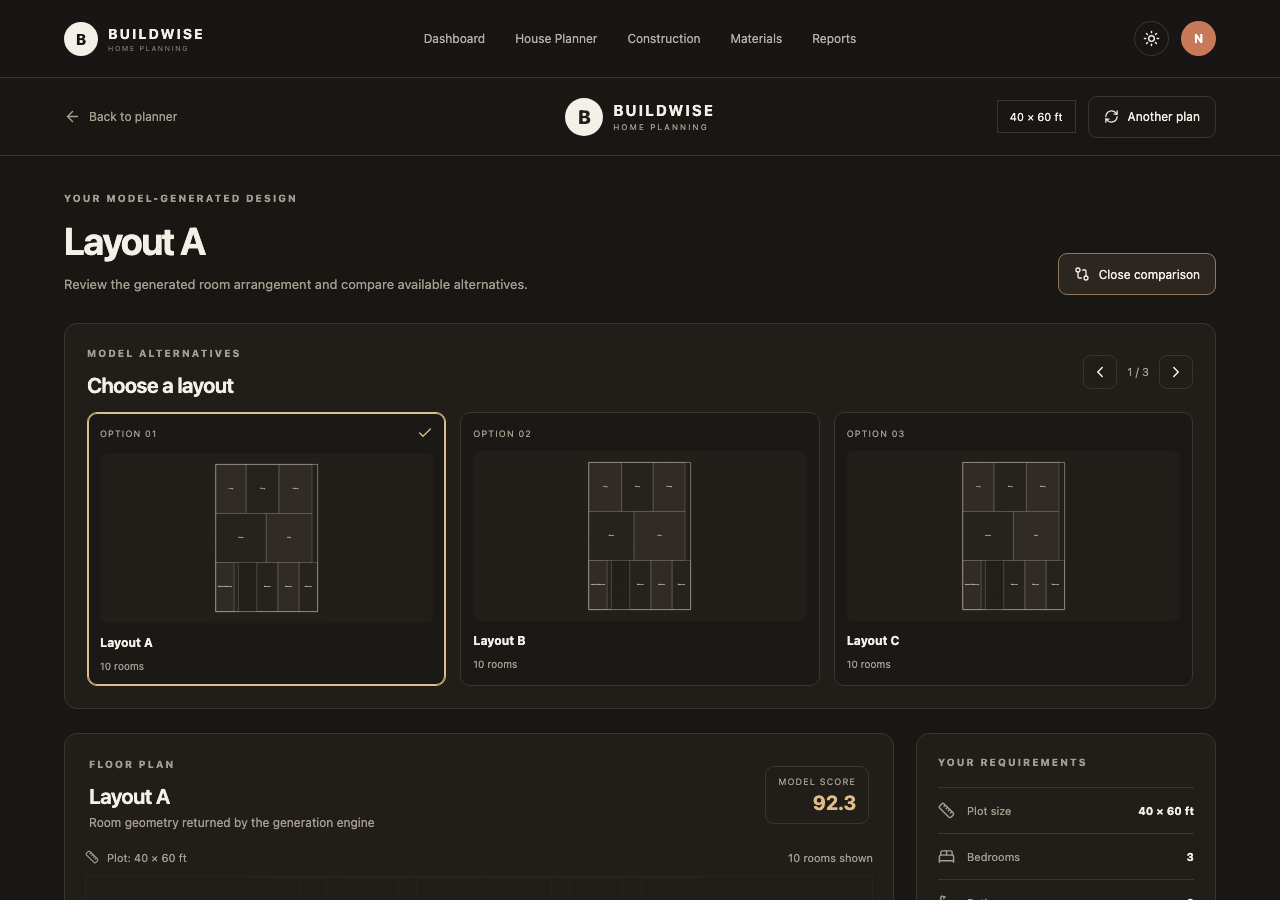
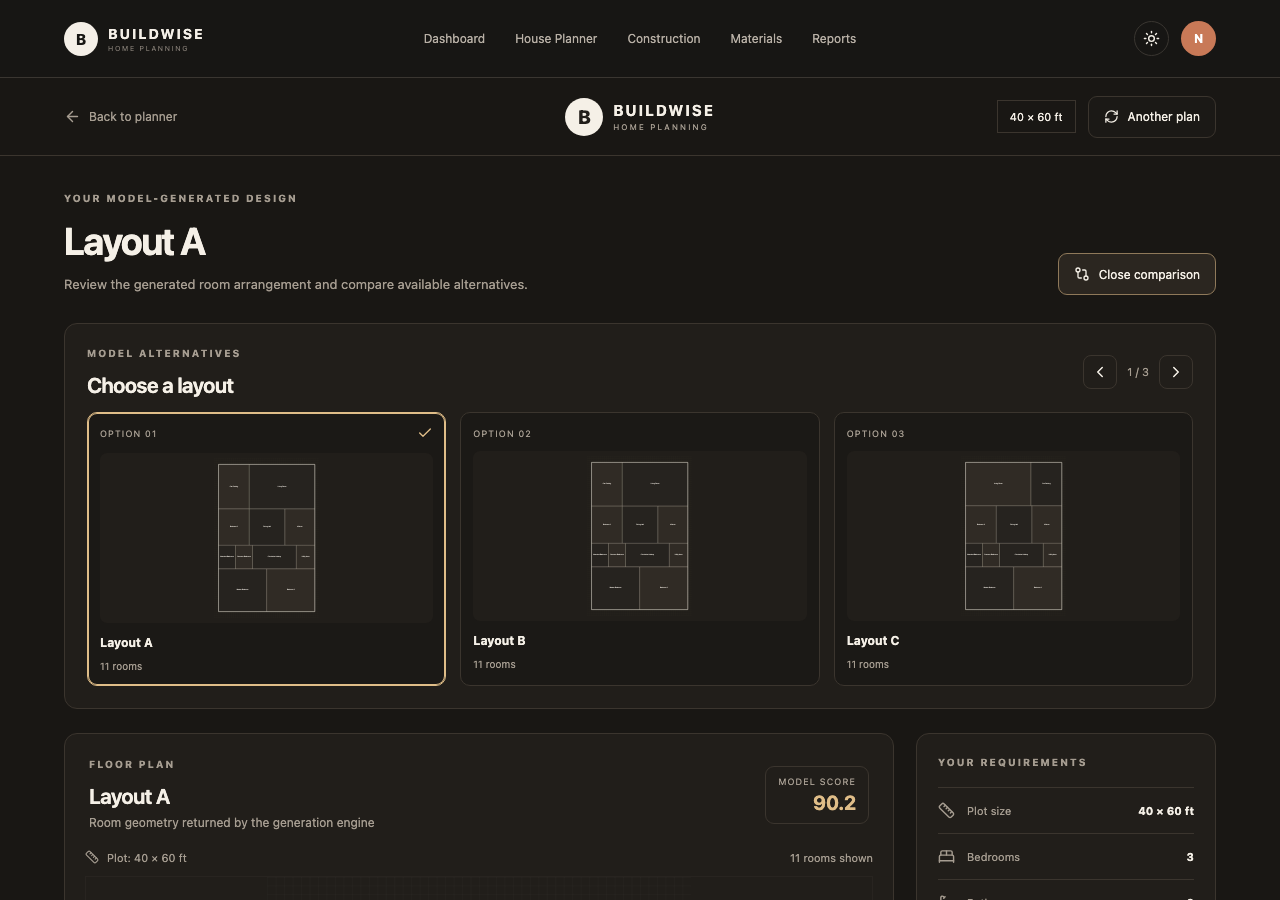
fix(floorplan): implement realistic 2D architectural room layout solver with proper zoning and proportions

diff --git a/backend/app/services/floorplan/solver.py b/backend/app/services/floorplan/solver.py
@@ -350,7 +350,7 @@ class FloorPlanSolver:
         rng = random.Random(seed)
 
         # Generate Ground Floor
-        g_placed = self._slice_floor(rng, envelope, ground_rooms, is_ground=True)
+        g_placed = self._layout_floor(rng, envelope, ground_rooms, is_ground=True, alt_index=alt_index)
         if not g_placed:
             return None
 
@@ -364,7 +364,7 @@ class FloorPlanSolver:
 
         # Generate Upper Floors (if any)
         for fl_level, u_rooms in upper_rooms.items():
-            u_placed = self._slice_floor(rng, envelope, u_rooms, is_ground=False)
+            u_placed = self._layout_floor(rng, envelope, u_rooms, is_ground=False, alt_index=alt_index)
             if u_placed:
                 floors_data.append(
                     {
@@ -409,121 +409,263 @@ class FloorPlanSolver:
             },
         }
 
-    def _slice_floor(
+    def _layout_floor(
         self,
         rng: random.Random,
         envelope: Envelope,
         rooms_to_place: list[dict[str, Any]],
         is_ground: bool,
+        alt_index: int = 0,
     ) -> list[RectRoom] | None:
         if not rooms_to_place:
             return []
 
-        # Categorize rooms by functional zone
-        # Public zone (living, dining, parking) -> closer to road
-        # Service zone (kitchen, utility, pooja)
-        # Private zone (master bedroom, bedrooms, bathrooms)
-        # Staircase
-        rooms = list(rooms_to_place)
+        W = envelope.width
+        D = envelope.height
+        jitter = round(rng.uniform(-0.5, 0.5), 2)
 
-        # Find master and master bath to keep them adjacent
-        master = next((r for r in rooms if r.get("id") == "master" or r.get("type") == "master_bedroom"), None)
-        master_bath = next((r for r in rooms if r.get("attached_to") == "master"), None)
+        # Categorize rooms
+        living = next((r for r in rooms_to_place if r.get("type") == "living"), None)
+        dining = next((r for r in rooms_to_place if r.get("type") == "dining"), None)
+        kitchen = next((r for r in rooms_to_place if r.get("type") == "kitchen"), None)
+        utility = next((r for r in rooms_to_place if r.get("type") == "utility"), None)
+        pooja = next((r for r in rooms_to_place if r.get("type") == "pooja"), None)
+        parking = next((r for r in rooms_to_place if r.get("type") == "parking"), None)
 
-        # Target areas
-        total_min = sum(float(r.get("min_area", 100)) for r in rooms)
-        avail_area = envelope.area
-        scale = max(1.0, min(1.35, avail_area / (total_min * 1.15)))
+        master = next((r for r in rooms_to_place if r.get("id") == "master" or r.get("type") == "master_bedroom"), None)
+        other_beds = [r for r in rooms_to_place if "bed" in r.get("type", "") and r != master]
+        master_bath = next((r for r in rooms_to_place if r.get("attached_to") == "master"), None)
+        common_baths = [r for r in rooms_to_place if "bath" in r.get("type", "") and r != master_bath]
 
-        placed_rooms: list[RectRoom] = []
+        # Upper floor specific
+        balcony = next((r for r in rooms_to_place if r.get("type") == "balcony"), None)
+        staircase = next((r for r in rooms_to_place if r.get("type") == "staircase"), None)
 
-        # Divide envelope into 2 or 3 bands along depth or width depending on road_side
-        # If road_side == N: top band = public, middle = circulation/services, bottom = private
-        # If road_side == S: bottom = public, top = private
-        # If road_side == W: left = public, right = private
-        # If road_side == E: right = public, left = private
-        split_vertical = envelope.width >= envelope.height
+        # Raw normalized boxes (id, name, type, u, v, w, h)
+        raw_boxes: list[tuple[str, str, str, float, float, float, float]] = []
 
-        # Group rooms
-        public_list = [r for r in rooms if r.get("type") in {"living", "dining", "parking"}]
-        service_list = [r for r in rooms if r.get("type") in {"kitchen", "utility", "pooja", "staircase"}]
-        private_list = [r for r in rooms if r not in public_list and r not in service_list]
+        # If on upper floor or single living room without service wing
+        if not is_ground:
+            # Upper floor: Front Balcony / Lounge, Bedrooms, Baths, Staircase
+            h_front = round(min(16.0, max(12.0, D * 0.35 + jitter)), 2)
+            h_rear = round(D - h_front, 2)
 
-        # Order bands based on road_side
-        road = self.road_side
-        if road == "N":
-            bands_order = [public_list, service_list, private_list]
-            reverse_band = False
-        elif road == "S":
-            bands_order = [private_list, service_list, public_list]
-            reverse_band = False
-        elif road == "W":
-            bands_order = [public_list, service_list, private_list]
-            reverse_band = False
+            if balcony:
+                w_bal = round(min(10.0, max(6.0, W * 0.3)), 2)
+                w_lounge = round(W - w_bal, 2)
+                raw_boxes.append((balcony["id"], balcony.get("name", "Balcony"), "balcony", 0.0, 0.0, w_bal, h_front))
+                raw_boxes.append(("family_lounge", "Family Lounge", "living", w_bal, 0.0, w_lounge, h_front))
+            else:
+                raw_boxes.append(("family_lounge", "Family Lounge", "living", 0.0, 0.0, W, h_front))
+
+            all_upper_beds = other_beds if other_beds else ([master] if master else [])
+            n_beds = max(1, len(all_upper_beds))
+            w_col = round(W / n_beds, 2)
+            for i, bed in enumerate(all_upper_beds):
+                bx = round(i * w_col, 2)
+                bw = round(W - bx if i == n_beds - 1 else w_col, 2)
+                bname = bed.get("name") or f"Bedroom {i+2}"
+                raw_boxes.append((bed["id"], bname, "bedroom", bx, h_front, bw, h_rear))
+
+            if common_baths:
+                cb = common_baths[0]
+                raw_boxes.append((cb["id"], cb.get("name", "Bathroom"), "bathroom", 0.0, h_front, 6.0, 8.0))
+
         else:
-            bands_order = [private_list, service_list, public_list]
-            reverse_band = False
+            # GROUND FLOOR:
+            use_4_bands = (len(other_beds) >= 1 or D >= 44.0) and D >= 38.0
 
-        # Filter out empty bands
-        active_bands = [b for b in bands_order if b]
-        if not active_bands:
-            active_bands = [rooms]
+            if use_4_bands:
+                # 4-BAND ARCHITECTURAL LAYOUT
+                h_front = round(min(17.0, max(14.0, D * 0.30 + jitter)), 2)
+                h_mid1 = round(min(15.0, max(12.0, D * 0.25 - jitter)), 2)
+                h_mid2 = round(min(9.0, max(7.5, D * 0.16)), 2)
+                h_rear = round(D - h_front - h_mid1 - h_mid2, 2)
 
-        num_bands = len(active_bands)
-        curr_y = envelope.min_y
-        band_height = envelope.height / num_bands
+                # Band 1: Front Zone (Parking + Living Room)
+                if parking:
+                    w_park = round(min(12.0, max(10.0, W * 0.32)), 2)
+                    w_liv = round(W - w_park, 2)
+                    if alt_index % 2 == 1:
+                        # Parking on Right, Living on Left
+                        if living:
+                            raw_boxes.append((living["id"], living.get("name", "Living Room"), "living", 0.0, 0.0, w_liv, h_front))
+                        raw_boxes.append((parking["id"], parking.get("name", "Car Parking"), "parking", w_liv, 0.0, w_park, h_front))
+                    else:
+                        # Parking on Left, Living on Right (Vastu classic)
+                        raw_boxes.append((parking["id"], parking.get("name", "Car Parking"), "parking", 0.0, 0.0, w_park, h_front))
+                        if living:
+                            raw_boxes.append((living["id"], living.get("name", "Living Room"), "living", w_park, 0.0, w_liv, h_front))
+                elif living:
+                    raw_boxes.append((living["id"], living.get("name", "Living Room"), "living", 0.0, 0.0, W, h_front))
 
-        for band_idx, band in enumerate(active_bands):
-            b_y = envelope.min_y + band_idx * band_height
-            b_h = band_height
-            curr_x = envelope.min_x
-            n_rooms = len(band)
-            room_width = envelope.width / max(1, n_rooms)
+                # Band 2: Mid-Front Zone (Bedroom 3 / Guest Room, Dining Hall, Kitchen)
+                y_mid1 = h_front
+                b3 = other_beds[-1] if len(other_beds) >= 2 else (other_beds[0] if other_beds else None)
+                w_b3 = round(min(12.0, max(9.5, W * 0.32)), 2) if b3 else 0.0
+                w_kit = round(min(12.0, max(9.5, W * 0.31)), 2) if kitchen else 0.0
+                w_din = round(W - w_b3 - w_kit, 2)
 
-            # Randomize slightly with rng
-            widths = [room_width] * n_rooms
-            if n_rooms > 1:
-                jitter = rng.uniform(-1.0, 1.0)
-                widths[0] = max(8.0, widths[0] + jitter)
-                rem = (envelope.width - widths[0]) / (n_rooms - 1)
-                for i in range(1, n_rooms):
-                    widths[i] = rem
+                if b3:
+                    b3_name = b3.get("name") or ("Bedroom 3" if len(other_beds) >= 2 else "Bedroom 2")
+                    raw_boxes.append((b3["id"], b3_name, "bedroom", 0.0, y_mid1, w_b3, h_mid1))
+                if dining:
+                    raw_boxes.append((dining["id"], dining.get("name", "Dining Hall"), "dining", w_b3, y_mid1, w_din, h_mid1))
+                if kitchen:
+                    raw_boxes.append((kitchen["id"], kitchen.get("name", "Kitchen"), "kitchen", round(w_b3 + w_din, 2), y_mid1, w_kit, h_mid1))
 
-            for i, r in enumerate(band):
-                rx = curr_x
-                ry = b_y
-                rw = widths[i]
-                rh = b_h
-                rname = r.get("name") or r.get("type", "").replace("_", " ").title()
+                # Band 3: Services, Hallway & Bathrooms
+                y_mid2 = round(y_mid1 + h_mid1, 2)
+                w_mb = 6.0 if master_bath else 0.0
+                w_cb = 6.0 if common_baths else 0.0
+                w_pj = 5.5 if pooja else 0.0
+                w_ut = 6.5 if utility else 0.0
+                w_hall = round(max(5.0, W - w_mb - w_cb - w_pj - w_ut), 2)
 
-                # Ensure minimum width
-                min_w = 4.5 if "bath" in r.get("type", "") else 7.5
-                if rw < min_w:
-                    rw = min_w
-                if rh < min_w:
-                    rh = min_w
+                curr_x = 0.0
+                if master_bath:
+                    raw_boxes.append((master_bath["id"], master_bath.get("name", "Attached Bathroom"), "attached_bathroom", curr_x, y_mid2, w_mb, h_mid2))
+                    curr_x = round(curr_x + w_mb, 2)
+                if common_baths:
+                    cb = common_baths[0]
+                    raw_boxes.append((cb["id"], cb.get("name", "Common Bathroom"), "bathroom", curr_x, y_mid2, w_cb, h_mid2))
+                    curr_x = round(curr_x + w_cb, 2)
+                raw_boxes.append(("hallway", "Circulation Hallway", "corridor", curr_x, y_mid2, w_hall, h_mid2))
+                curr_x = round(curr_x + w_hall, 2)
+                if pooja:
+                    raw_boxes.append((pooja["id"], pooja.get("name", "Pooja Room"), "pooja", curr_x, y_mid2, w_pj, h_mid2))
+                    curr_x = round(curr_x + w_pj, 2)
+                if utility:
+                    rem_ut = round(W - curr_x, 2)
+                    raw_boxes.append((utility["id"], utility.get("name", "Utility Area"), "utility", curr_x, y_mid2, rem_ut, h_mid2))
 
-                placed = RectRoom(
-                    id=r.get("id"),
-                    type=r.get("type"),
+                # Band 4: Rear Private Bedroom Wing (Master Bedroom + Bedroom 2)
+                y_rear = round(y_mid2 + h_mid2, 2)
+                rear_beds = [master] if master else []
+                for b in other_beds:
+                    if b != b3:
+                        rear_beds.append(b)
+
+                if not rear_beds:
+                    rear_beds = [master] if master else []
+
+                n_rb = max(1, len(rear_beds))
+                w_rcol = round(W / n_rb, 2)
+                for i, bed in enumerate(rear_beds):
+                    bx = round(i * w_rcol, 2)
+                    bw = round(W - bx if i == n_rb - 1 else w_rcol, 2)
+                    bname = bed.get("name") or ("Master Bedroom" if bed == master else f"Bedroom {i+1}")
+                    raw_boxes.append((bed["id"], bname, bed.get("type", "bedroom"), bx, y_rear, bw, h_rear))
+
+            else:
+                # 3-BAND ARCHITECTURAL LAYOUT (for 1 or 2 bedrooms, or compact depths)
+                h_front = round(min(17.0, max(13.0, D * 0.33 + jitter)), 2)
+                h_mid = round(min(18.0, max(13.0, D * 0.34 - jitter)), 2)
+                h_rear = round(D - h_front - h_mid, 2)
+
+                # Front
+                if parking:
+                    w_park = round(min(12.0, max(10.0, W * 0.32)), 2)
+                    w_liv = round(W - w_park, 2)
+                    raw_boxes.append((parking["id"], parking.get("name", "Car Parking"), "parking", 0.0, 0.0, w_park, h_front))
+                    if living:
+                        raw_boxes.append((living["id"], living.get("name", "Living Room"), "living", w_park, 0.0, w_liv, h_front))
+                elif living:
+                    raw_boxes.append((living["id"], living.get("name", "Living Room"), "living", 0.0, 0.0, W, h_front))
+
+                # Mid
+                w_serv = round(min(11.0, max(9.0, W * 0.30)), 2) if kitchen else 0.0
+                w_left = 6.5 if (pooja or common_baths) else 0.0
+                w_din = round(W - w_serv - w_left, 2)
+                y_mid = h_front
+
+                if common_baths and pooja:
+                    raw_boxes.append((pooja["id"], pooja.get("name", "Pooja Room"), "pooja", 0.0, y_mid, w_left, round(h_mid * 0.4, 2)))
+                    raw_boxes.append((common_baths[0]["id"], common_baths[0].get("name", "Common Bathroom"), "bathroom", 0.0, round(y_mid + h_mid * 0.4, 2), w_left, round(h_mid * 0.6, 2)))
+                elif common_baths:
+                    raw_boxes.append((common_baths[0]["id"], common_baths[0].get("name", "Common Bathroom"), "bathroom", 0.0, y_mid, w_left, h_mid))
+                elif pooja:
+                    raw_boxes.append((pooja["id"], pooja.get("name", "Pooja Room"), "pooja", 0.0, y_mid, w_left, h_mid))
+
+                if dining:
+                    raw_boxes.append((dining["id"], dining.get("name", "Dining Hall"), "dining", w_left, y_mid, w_din, h_mid))
+
+                if kitchen and utility:
+                    hk = round(h_mid * 0.65, 2)
+                    hu = round(h_mid - hk, 2)
+                    raw_boxes.append((kitchen["id"], kitchen.get("name", "Kitchen"), "kitchen", round(w_left + w_din, 2), y_mid, w_serv, hk))
+                    raw_boxes.append((utility["id"], utility.get("name", "Utility Area"), "utility", round(w_left + w_din, 2), round(y_mid + hk, 2), w_serv, hu))
+                elif kitchen:
+                    raw_boxes.append((kitchen["id"], kitchen.get("name", "Kitchen"), "kitchen", round(w_left + w_din, 2), y_mid, w_serv, h_mid))
+
+                # Rear
+                y_rear = round(y_mid + h_mid, 2)
+                rear_beds = [master] if master else []
+                rear_beds.extend(other_beds)
+                if not rear_beds:
+                    rear_beds = [master] if master else []
+
+                n_rb = max(1, len(rear_beds))
+                w_rcol = round(W / n_rb, 2)
+                for i, bed in enumerate(rear_beds):
+                    bx = round(i * w_rcol, 2)
+                    bw = round(W - bx if i == n_rb - 1 else w_rcol, 2)
+                    if bed == master and master_bath:
+                        w_mb = 5.5
+                        w_mbed = round(bw - w_mb, 2)
+                        raw_boxes.append((master["id"], "Master Bedroom", "master_bedroom", bx, y_rear, w_mbed, h_rear))
+                        raw_boxes.append((master_bath["id"], "Attached Bathroom", "attached_bathroom", round(bx + w_mbed, 2), y_rear, w_mb, h_rear))
+                    else:
+                        bname = bed.get("name") or ("Master Bedroom" if bed == master else f"Bedroom {i+1}")
+                        raw_boxes.append((bed["id"], bname, bed.get("type", "bedroom"), bx, y_rear, bw, h_rear))
+
+        # Convert normalized coordinates (u, v) into global plot envelope coordinates (x, y)
+        placed_rooms: list[RectRoom] = []
+        rs = self.road_side.upper()
+
+        for rid, rname, rtype, u, v, w, h in raw_boxes:
+            if w <= 0.0 or h <= 0.0:
+                continue
+
+            if rs == "N":
+                rx = envelope.min_x + u
+                ry = envelope.min_y + v
+                rw = w
+                rh = h
+            elif rs == "S":
+                rx = envelope.min_x + (W - u - w)
+                ry = envelope.max_y - v - h
+                rw = w
+                rh = h
+            elif rs == "W":
+                rx = envelope.min_x + v
+                ry = envelope.min_y + u
+                rw = h
+                rh = w
+            elif rs == "E":
+                rx = envelope.max_x - v - h
+                ry = envelope.min_y + u
+                rw = h
+                rh = w
+            else:
+                rx = envelope.min_x + u
+                ry = envelope.min_y + v
+                rw = w
+                rh = h
+
+            placed_rooms.append(
+                RectRoom(
+                    id=rid,
+                    type=rtype,
                     name=rname,
-                    x=rx,
-                    y=ry,
-                    width=rw,
-                    height=rh,
+                    x=round(rx, 2),
+                    y=round(ry, 2),
+                    width=round(rw, 2),
+                    height=round(rh, 2),
                 )
-                placed_rooms.append(placed)
-                curr_x += rw
+            )
 
-        # Check attached bathroom adjacency
-        if master and master_bath:
-            mb_room = next((p for p in placed_rooms if p.id == master.get("id")), None)
-            m_bath_room = next((p for p in placed_rooms if p.id == master_bath.get("id")), None)
-            if mb_room and m_bath_room:
-                # Pair them by sharing wall
-                # Position bath adjacent to master
-                m_bath_room.x = mb_room.x
-                m_bath_room.y = mb_room.y + mb_room.height - m_bath_room.height
+        return placed_rooms
 
         return placed_rooms
 
